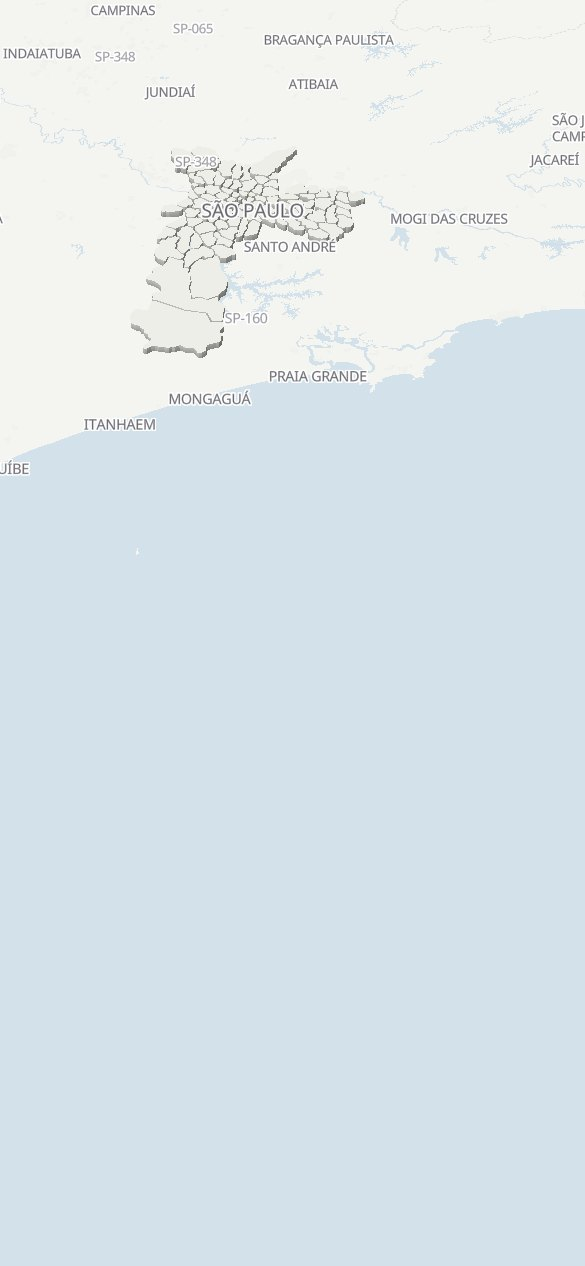
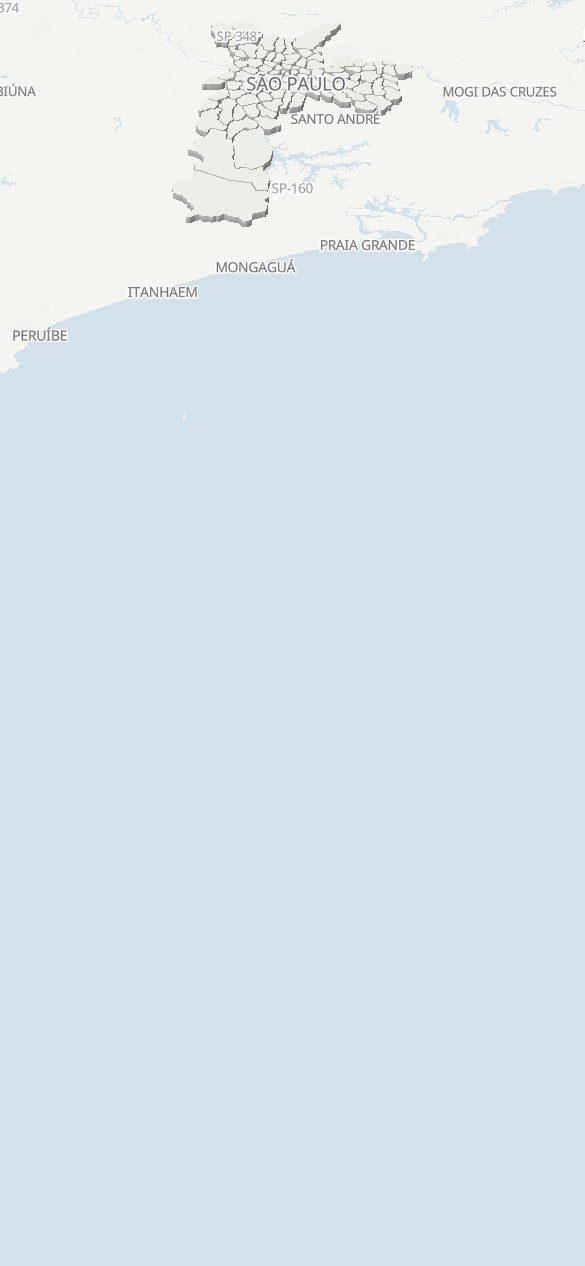
Celular: o mapa da abertura já abre no meio e não pula mais

diff --git a/assets/js/mapa.js b/assets/js/mapa.js
@@ -126,8 +126,9 @@ export function criarMapa(el, geo, rotas, valores, { calmo = false } = {}) {
     return { top: 120, bottom: 80, left: Math.round(w * (est.cena === 0 ? 0.47 : 0.43)), right: 70 };
   }
 
-  // Celular: o mapa ao vivo pesava demais com a rolagem e, no iPhone, segurava o dedo. Lá a abertura mostra uma foto do mapa
-  // (fixa no HTML, trocada por uma foto do dia quando o mapa carrega) e o mapa ao vivo aparece só no resultado do CEP.
+  // Celular: o mapa ao vivo pesava demais com a rolagem e, no iPhone, segurava o dedo. Lá a abertura mostra uma foto fixa do mapa
+  // (assets/mapa/celular-cidade.jpg, pelo CSS, com a cidade no meio) e o mapa ao vivo aparece só no resultado do CEP.
+  // A foto não é mais trocada por uma tirada na hora: a troca fazia a cidade pular de lugar ao abrir o site (26/11/2026).
   // Os capítulos, no celular, não têm mapa (pedido do Theo em 25/11/2026: a rolagem tem de ser lisa).
   const FOTO = celular() && !calmo;
   let fotoPronta = false, cenaFoto = 0, caixaFotos = null;
@@ -135,8 +136,7 @@ export function criarMapa(el, geo, rotas, valores, { calmo = false } = {}) {
     caixaFotos = el.parentElement.querySelector('.mapa-fotos');
     if (!caixaFotos) { caixaFotos = document.createElement('div'); caixaFotos.className = 'mapa-fotos'; caixaFotos.setAttribute('aria-hidden', 'true'); el.after(caixaFotos); }
   }
-  const mapa = novoMapa(el, { bounds: cidade, fitBoundsOptions: { padding: margem() }, bearing: CAMERA[0][0], pitch: CAMERA[0][1],
-    ...(FOTO ? { canvasContextAttributes: { antialias: false, preserveDrawingBuffer: true } } : {}) });
+  const mapa = novoMapa(el, { bounds: cidade, fitBoundsOptions: { padding: margem() }, bearing: CAMERA[0][0], pitch: CAMERA[0][1] });
   if (FOTO) el.classList.add('so-foto');
 
   // dados de cada ponto: rota e loja por rede, na ordem das redes do site
@@ -191,52 +191,15 @@ export function criarMapa(el, geo, rotas, valores, { calmo = false } = {}) {
 
   // ---------- fotos do mapa (celular)
   const ociosa = () => new Promise(r => { let feito = false; const fim = () => { if (!feito) { feito = true; r(); } }; mapa.once('idle', fim); setTimeout(fim, 7000); });
-  // a foto só vale se o desenho veio de verdade (alguns navegadores devolvem um quadro vazio)
-  function temDesenho(fonte, w, h) {
-    const t = document.createElement('canvas'); t.width = 24; t.height = 24;
-    const c = t.getContext('2d', { willReadFrequently: true });
-    c.drawImage(fonte, 0, 0, w, h, 0, 0, 24, 24);
-    const d = c.getImageData(0, 0, 24, 24).data;
-    let menor = 765, maior = 0, opaco = 0;
-    for (let i = 0; i < d.length; i += 4) { const v = d[i] + d[i + 1] + d[i + 2]; menor = Math.min(menor, v); maior = Math.max(maior, v); opaco = Math.max(opaco, d[i + 3]); }
-    return opaco > 0 && maior - menor > 30;
-  }
-  const semCep = () => { if (est.sel >= 0) throw new Error('cep'); };   // a pessoa pôs um CEP no meio das fotos: para tudo
-  async function tirar(mudar) {
-    const pronto = ociosa();
-    mudar(); mapa.triggerRepaint();
-    await pronto;
-    semCep();
-    const cv = mapa.getCanvas();
-    if (!temDesenho(cv, cv.width, cv.height)) throw new Error('foto vazia');
-    let img = caixaFotos.querySelector('.mapa-foto[data-cena="0"]');
-    if (!img) { img = new Image(); img.className = 'mapa-foto on'; img.alt = ''; img.dataset.cena = '0'; caixaFotos.append(img); }
-    img.src = cv.toDataURL('image/jpeg', 0.86);
-  }
   function mostrarFoto(c) {
     cenaFoto = c;
     if (!caixaFotos) return;
     caixaFotos.querySelectorAll('.mapa-foto').forEach(f => f.classList.toggle('on', f.dataset.cena === '0'));
   }
-  let fotografando = false;
+  // depois do primeiro desenho, o mapa ao vivo sai da página (fica só a foto) até alguém pôr um CEP
   async function fotografar() {
-    if (fotografando || est.sel >= 0) return;
-    fotografando = true;
-    const voltar = () => { if (est.sel < 0) { est.cena = 0; aplicar(true); } };
-    try {
-      // para desenhar, o mapa precisa estar na página (fica invisível pelo so-foto); depois sai de novo (guardado)
-      el.classList.remove('guardado'); mapa.resize();
-      await tirar(() => { est.cena = 0; aplicar(true); });
-      voltar();
-      fotoPronta = true;
-    } catch (erro) {
-      // sem foto nova: ficam as fotos fixas (nunca some o mapa)
-      if (erro?.message !== 'cep') console.warn('Fotos do mapa: seguem as fotos fixas.', erro);
-      voltar();
-    } finally {
-      fotografando = false;
-      if (est.sel < 0) { el.classList.add('so-foto', 'guardado'); mostrarFoto(cenaFoto); }
-    }
+    await ociosa();
+    if (est.sel < 0) { el.classList.add('so-foto', 'guardado'); mostrarFoto(cenaFoto); }
   }
   // no resultado do CEP o mapa ao vivo aparece; fora dele, as fotos
   // Fora do resultado o mapa ao vivo sai da página de vez (display:none): no iPhone, a área dele segurava a rolagem
@@ -403,9 +366,8 @@ export function criarMapa(el, geo, rotas, valores, { calmo = false } = {}) {
     if (f) { fixo = true; mostrarRotulo(f); } else fecharRotulo();
   });
   let espera = 0;
-  let larguraFoto = innerWidth;   // a largura da janela: o mapa guardado (fora da página) mede 0
   window.addEventListener('resize', () => { clearTimeout(espera); espera = setTimeout(() => {
-    if (FOTO && caixaFotos) { if (innerWidth !== larguraFoto && est.sel < 0) { larguraFoto = innerWidth; fotografar(); } return; }   // no iPhone a barra do navegador muda só a altura: não refaz
+    if (FOTO && caixaFotos) return;   // celular: a abertura é uma foto fixa, nada a refazer
     if (est.pronto && !est.dentro) aplicar(true);
   }, 200); });
 

diff --git a/index.html b/index.html
@@ -25,7 +25,7 @@
 <link rel="stylesheet" href="assets/vendor/maplibre-gl.css">
 <link rel="stylesheet" href="assets/css/estilo.css?v=20261124w6">
 <link rel="stylesheet" href="assets/css/etiqueta.css?v=20261125q">
-<link rel="stylesheet" href="assets/css/celular.css?v=20261125q" media="(max-width:860px)">
+<link rel="stylesheet" href="assets/css/celular.css?v=20261126c" media="(max-width:860px)">
 <script>if(!matchMedia('(prefers-reduced-motion: reduce)').matches){document.documentElement.classList.add('anima');setTimeout(function(){document.documentElement.classList.add('mostra')},5000)}</script>
 </head>
 <body class="pg-inicio">
@@ -48,8 +48,8 @@
   <div class="cena" id="inicio">
     <div class="palco" id="palco" aria-hidden="true">
       <div id="mapa"></div>
-      <!-- celular: fotos do mapa (fixas; o mapa ao vivo troca por fotos do dia quando carrega). No computador ficam escondidas. -->
-      <div class="mapa-fotos" aria-hidden="true"><img class="mapa-foto on" data-cena="0" src="assets/mapa/celular-cidade.jpg" alt="" loading="lazy" decoding="async"></div>
+      <!-- celular: foto fixa do mapa na abertura (a imagem vem do celular.css). No computador fica escondida. -->
+      <div class="mapa-fotos" aria-hidden="true"></div>
       <div class="dica" id="dica"></div>
       <ol class="trilha" id="trilha"><li>01</li><li>02</li><li>03</li><i></i></ol>
     </div>
@@ -234,6 +234,6 @@
 <script src="assets/vendor/SplitText.min.js" defer></script>
 <script src="assets/vendor/lenis.min.js" defer></script>
 <script src="assets/vendor/maplibre-gl.js" defer></script>
-<script type="module" src="assets/js/main.js?v=20261126b"></script>
+<script type="module" src="assets/js/main.js?v=20261126c"></script>
 </body>
 </html>

diff --git a/inflacao.html b/inflacao.html
@@ -25,7 +25,7 @@
 <link rel="stylesheet" href="assets/vendor/maplibre-gl.css">
 <link rel="stylesheet" href="assets/css/estilo.css?v=20261124w6">
 <link rel="stylesheet" href="assets/css/etiqueta.css?v=20261125q">
-<link rel="stylesheet" href="assets/css/celular.css?v=20261125q" media="(max-width:860px)">
+<link rel="stylesheet" href="assets/css/celular.css?v=20261126c" media="(max-width:860px)">
 <script>if(!matchMedia('(prefers-reduced-motion: reduce)').matches){document.documentElement.classList.add('anima');setTimeout(function(){document.documentElement.classList.add('mostra')},5000)}</script>
 </head>
 <body class="pg-inflacao">
@@ -140,6 +140,6 @@
 <script src="assets/vendor/SplitText.min.js" defer></script>
 <script src="assets/vendor/lenis.min.js" defer></script>
 <script src="assets/vendor/maplibre-gl.js" defer></script>
-<script type="module" src="assets/js/inflacao.js?v=20261126a"></script>
+<script type="module" src="assets/js/inflacao.js?v=20261126c"></script>
 </body>
 </html>

diff --git a/lista.html b/lista.html
@@ -25,7 +25,7 @@
 <link rel="stylesheet" href="assets/vendor/maplibre-gl.css">
 <link rel="stylesheet" href="assets/css/estilo.css?v=20261124w6">
 <link rel="stylesheet" href="assets/css/etiqueta.css?v=20261125q">
-<link rel="stylesheet" href="assets/css/celular.css?v=20261125q" media="(max-width:860px)">
+<link rel="stylesheet" href="assets/css/celular.css?v=20261126c" media="(max-width:860px)">
 <script>if(!matchMedia('(prefers-reduced-motion: reduce)').matches){document.documentElement.classList.add('anima');setTimeout(function(){document.documentElement.classList.add('mostra')},5000)}</script>
 </head>
 <body class="pg-lista">
@@ -153,6 +153,6 @@
 <script src="assets/vendor/SplitText.min.js" defer></script>
 <script src="assets/vendor/lenis.min.js" defer></script>
 <script src="assets/vendor/maplibre-gl.js" defer></script>
-<script type="module" src="assets/js/lista.js?v=20261126b"></script>
+<script type="module" src="assets/js/lista.js?v=20261126c"></script>
 </body>
 </html>

diff --git a/assets/css/celular.css b/assets/css/celular.css
@@ -57,7 +57,8 @@
 
 /* fotos do mapa (celular): a rolagem só troca uma imagem por outra; o mapa ao vivo fica escondido até o resultado do CEP */
 #mapa.so-foto .maplibregl-canvas-container,#mapa.so-foto .maplibregl-marker{visibility:hidden}
-.mapa-fotos{display:block;position:absolute;inset:0;pointer-events:none}
+/* a cidade fica no meio, na faixa de cima: a imagem cobre a largura e se prende ao alto da tela, em qualquer celular */
+.mapa-fotos{display:block;position:absolute;inset:0;pointer-events:none;background:var(--fundo) url(../mapa/celular-cidade.jpg) 50% 0 / cover no-repeat}
 .mapa-fotos.fora{display:none}
 .mapa-foto{position:absolute;inset:0;width:100%;height:100%;object-fit:cover;object-position:50% 0;opacity:0;transition:opacity .45s ease}
 .mapa-foto.on{opacity:1}

diff --git a/produtos.html b/produtos.html
@@ -24,7 +24,7 @@
 <link rel="apple-touch-icon" href="assets/logo/apple-touch-icon.png">
 <link rel="stylesheet" href="assets/css/estilo.css?v=20261124w6">
 <link rel="stylesheet" href="assets/css/etiqueta.css?v=20261125q">
-<link rel="stylesheet" href="assets/css/celular.css?v=20261125q" media="(max-width:860px)">
+<link rel="stylesheet" href="assets/css/celular.css?v=20261126c" media="(max-width:860px)">
 <script>if(!matchMedia('(prefers-reduced-motion: reduce)').matches){document.documentElement.classList.add('anima');setTimeout(function(){document.documentElement.classList.add('mostra')},5000)}</script>
 </head>
 <body class="pg-texto pg-produtos">

diff --git a/produto.html b/produto.html
@@ -24,7 +24,7 @@
 <link rel="apple-touch-icon" href="assets/logo/apple-touch-icon.png">
 <link rel="stylesheet" href="assets/css/estilo.css?v=20261124w6">
 <link rel="stylesheet" href="assets/css/etiqueta.css?v=20261125q">
-<link rel="stylesheet" href="assets/css/celular.css?v=20261125q" media="(max-width:860px)">
+<link rel="stylesheet" href="assets/css/celular.css?v=20261126c" media="(max-width:860px)">
 <script>if(!matchMedia('(prefers-reduced-motion: reduce)').matches){document.documentElement.classList.add('anima');setTimeout(function(){document.documentElement.classList.add('mostra')},5000)}</script>
 </head>
 <body class="pg-texto pg-produto">

diff --git a/404.html b/404.html
@@ -13,7 +13,7 @@
 <link rel="apple-touch-icon" href="assets/logo/apple-touch-icon.png">
 <link rel="stylesheet" href="assets/css/estilo.css?v=20261124w6">
 <link rel="stylesheet" href="assets/css/etiqueta.css?v=20261125q">
-<link rel="stylesheet" href="assets/css/celular.css?v=20261125q" media="(max-width:860px)">
+<link rel="stylesheet" href="assets/css/celular.css?v=20261126c" media="(max-width:860px)">
 <script>if(!matchMedia('(prefers-reduced-motion: reduce)').matches){document.documentElement.classList.add('anima');setTimeout(function(){document.documentElement.classList.add('mostra')},5000)}</script>
 </head>
 <body class="pg-texto pg-404">

diff --git a/metodo.html b/metodo.html
@@ -24,7 +24,7 @@
 <link rel="apple-touch-icon" href="assets/logo/apple-touch-icon.png">
 <link rel="stylesheet" href="assets/css/estilo.css?v=20261124w6">
 <link rel="stylesheet" href="assets/css/etiqueta.css?v=20261125q">
-<link rel="stylesheet" href="assets/css/celular.css?v=20261125q" media="(max-width:860px)">
+<link rel="stylesheet" href="assets/css/celular.css?v=20261126c" media="(max-width:860px)">
 <script>if(!matchMedia('(prefers-reduced-motion: reduce)').matches){document.documentElement.classList.add('anima');setTimeout(function(){document.documentElement.classList.add('mostra')},5000)}</script>
 </head>
 <body class="pg-metodo">

diff --git a/contato.html b/contato.html
@@ -24,7 +24,7 @@
 <link rel="apple-touch-icon" href="assets/logo/apple-touch-icon.png">
 <link rel="stylesheet" href="assets/css/estilo.css?v=20261124w6">
 <link rel="stylesheet" href="assets/css/etiqueta.css?v=20261125q">
-<link rel="stylesheet" href="assets/css/celular.css?v=20261125q" media="(max-width:860px)">
+<link rel="stylesheet" href="assets/css/celular.css?v=20261126c" media="(max-width:860px)">
 <script>if(!matchMedia('(prefers-reduced-motion: reduce)').matches){document.documentElement.classList.add('anima');setTimeout(function(){document.documentElement.classList.add('mostra')},5000)}</script>
 </head>
 <body class="pg-texto">

diff --git a/privacidade.html b/privacidade.html
@@ -24,7 +24,7 @@
 <link rel="apple-touch-icon" href="assets/logo/apple-touch-icon.png">
 <link rel="stylesheet" href="assets/css/estilo.css?v=20261124w6">
 <link rel="stylesheet" href="assets/css/etiqueta.css?v=20261125q">
-<link rel="stylesheet" href="assets/css/celular.css?v=20261125q" media="(max-width:860px)">
+<link rel="stylesheet" href="assets/css/celular.css?v=20261126c" media="(max-width:860px)">
 <script>if(!matchMedia('(prefers-reduced-motion: reduce)').matches){document.documentElement.classList.add('anima');setTimeout(function(){document.documentElement.classList.add('mostra')},5000)}</script>
 </head>
 <body class="pg-texto">

diff --git a/sobre.html b/sobre.html
@@ -24,7 +24,7 @@
 <link rel="apple-touch-icon" href="assets/logo/apple-touch-icon.png">
 <link rel="stylesheet" href="assets/css/estilo.css?v=20261124w6">
 <link rel="stylesheet" href="assets/css/etiqueta.css?v=20261125q">
-<link rel="stylesheet" href="assets/css/celular.css?v=20261125q" media="(max-width:860px)">
+<link rel="stylesheet" href="assets/css/celular.css?v=20261126c" media="(max-width:860px)">
 <script>if(!matchMedia('(prefers-reduced-motion: reduce)').matches){document.documentElement.classList.add('anima');setTimeout(function(){document.documentElement.classList.add('mostra')},5000)}</script>
 </head>
 <body class="pg-texto">
